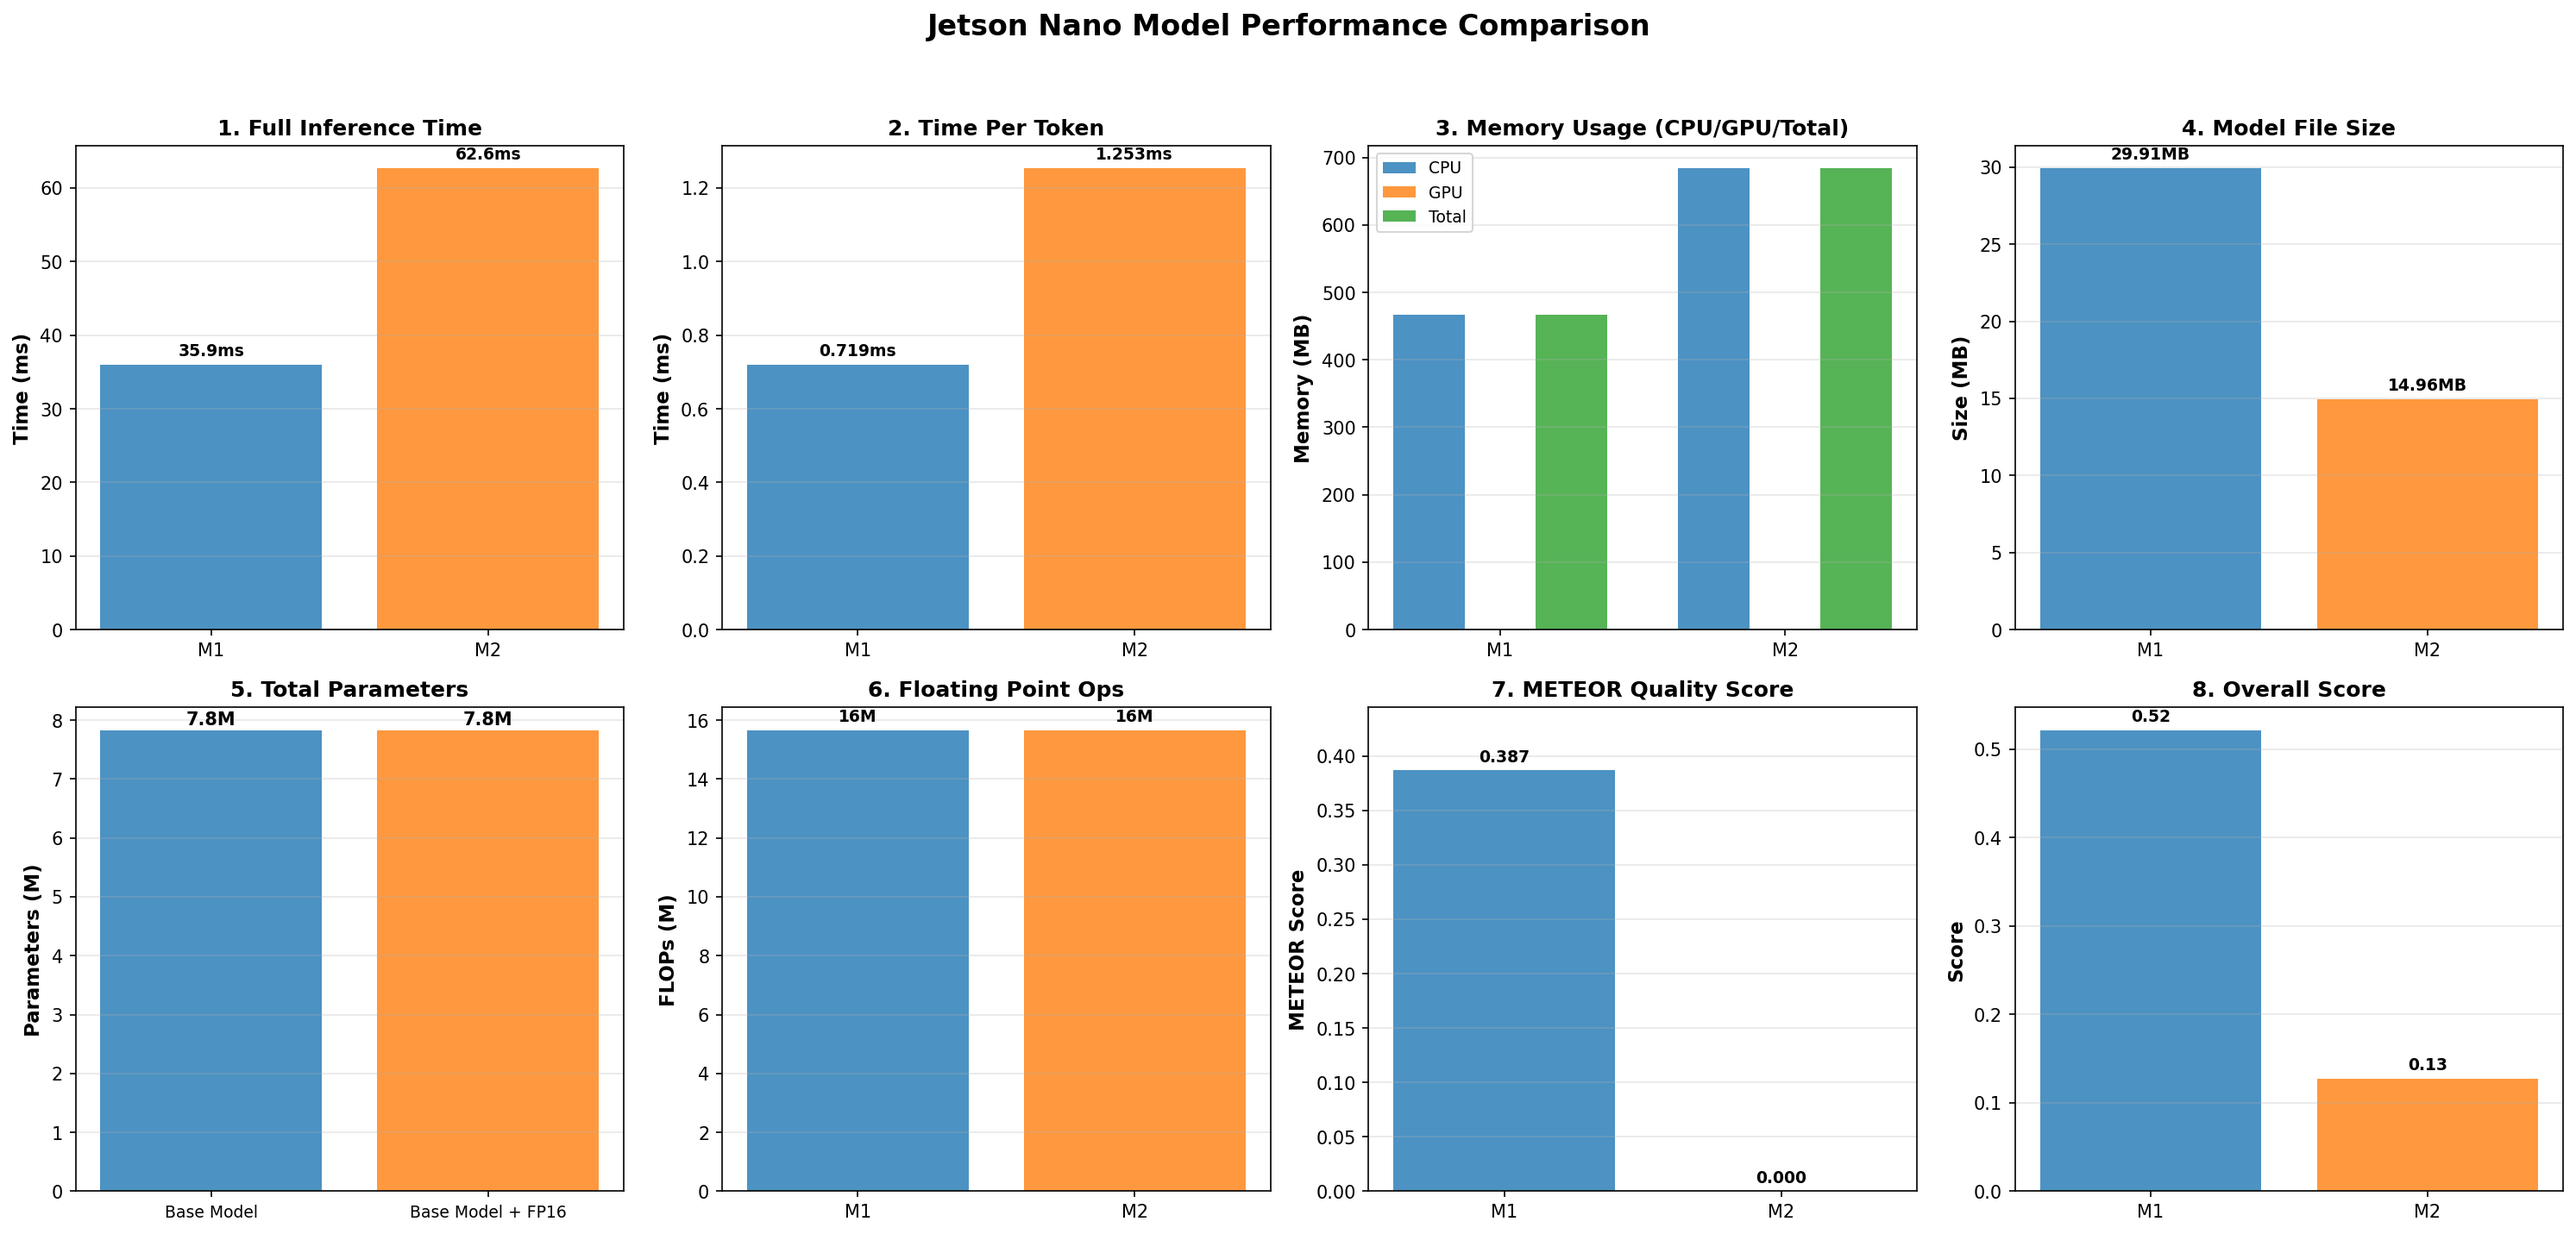
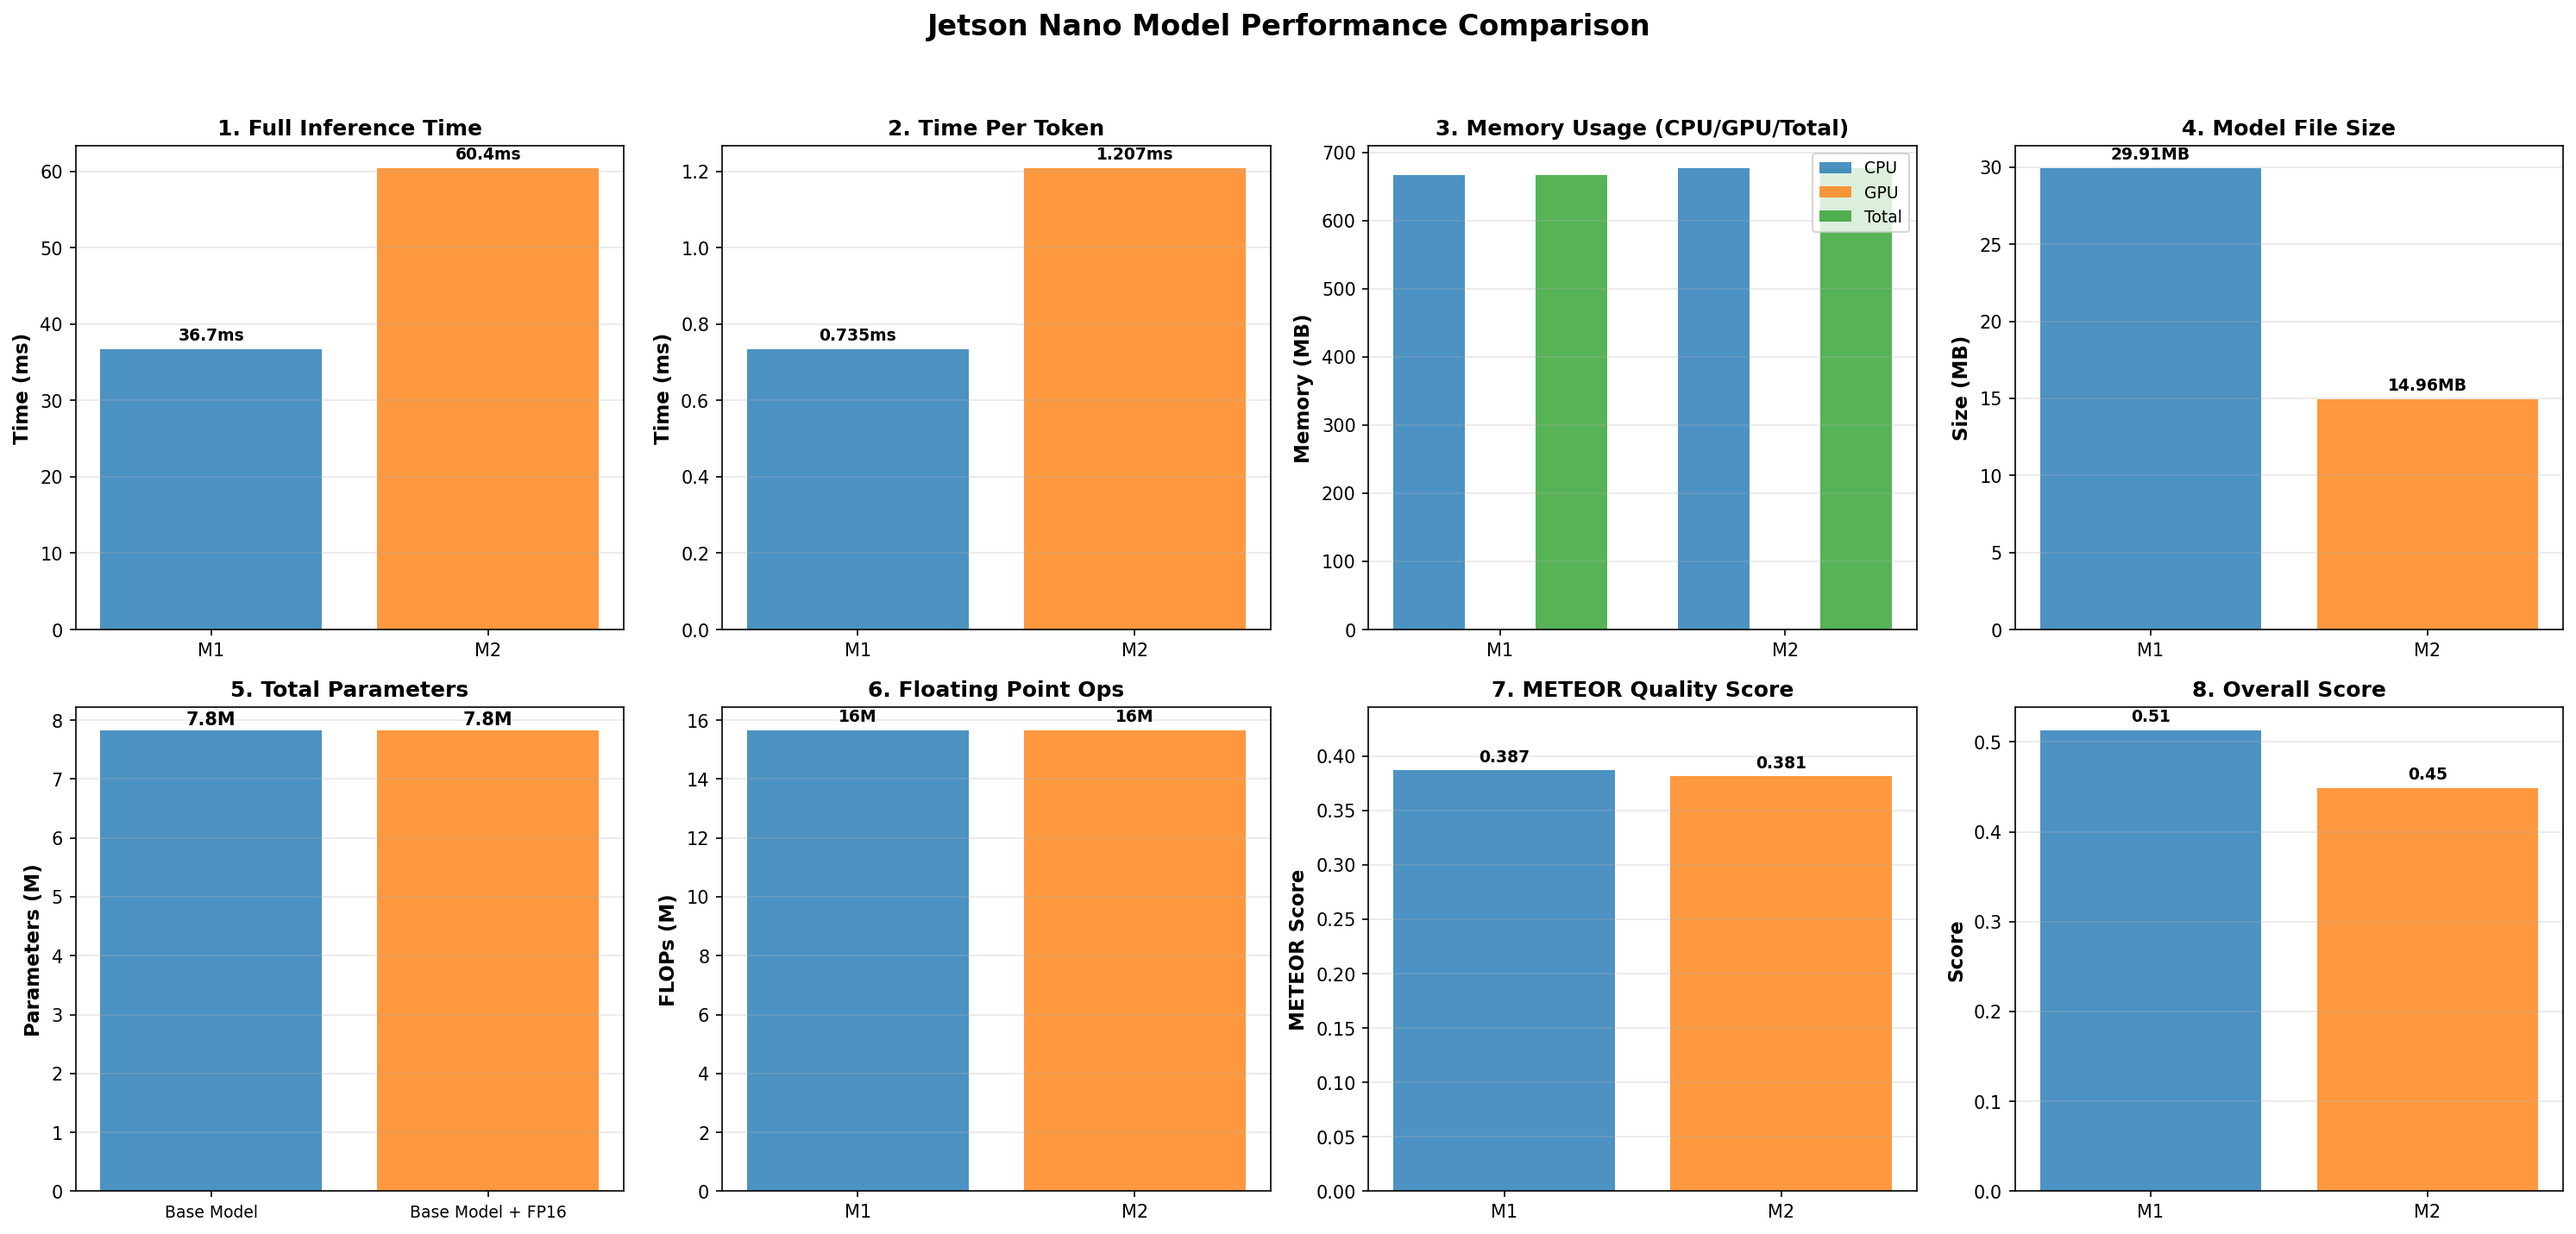
u

diff --git a/scripts/benchmark_comparison.py b/scripts/benchmark_comparison.py
@@ -398,8 +398,10 @@ def benchmark_model(model, word_map, rev_word_map, model_name, config):
         torch.cuda.synchronize()
     print(" Done")
     
-    # 본 벤치마크 (실제 이미지 사용)
-    print("  Running {} iterations with real images...".format(NUM_RUNS))
+    # 본 벤치마크 (실제 이미지 사용 + METEOR 동시 측정)
+    print("  Running {} iterations with real images (measuring METEOR)...".format(NUM_RUNS))
+    
+    meteor_scores_benchmark = []  # 벤치마크 중 METEOR 점수 저장
     
     with torch.no_grad():
         for i in range(NUM_RUNS):
@@ -421,8 +423,9 @@ def benchmark_model(model, word_map, rev_word_map, model_name, config):
                 metrics.record_memory()
                 start = time.time()
                 
+                generated_caption = None
                 try:
-                    _ = model.generate(img_tensor, word_map, rev_word_map, max_len=50, device=device)
+                    generated_caption = model.generate(img_tensor, word_map, rev_word_map, max_len=50, device=device)
                 except:
                     # generate가 없으면 encoder만 실행
                     features = model.encoder(img_tensor)
@@ -437,9 +440,20 @@ def benchmark_model(model, word_map, rev_word_map, model_name, config):
                 inference_time = (time.time() - start) * 1000
                 metrics.record_inference(inference_time)
                 
+                # ★ 벤치마크 중 METEOR 점수 계산
+                if generated_caption:
+                    img_name = os.path.basename(img_path)
+                    reference_caption = test_captions.get(img_name, '')
+                    if reference_caption:
+                        score = calculate_meteor_score(generated_caption, reference_caption)
+                        meteor_scores_benchmark.append(score)
+                
                 if (i + 1) % 10 == 0:
-                    print()
-                    print("    [{}/{}] Done (Image: {})".format(i + 1, NUM_RUNS, os.path.basename(img_path)))
+                    if meteor_scores_benchmark:
+                        avg_meteor = float(np.mean(meteor_scores_benchmark))
+                        print("    [{}/{}] Done | METEOR: {:.4f}".format(i + 1, NUM_RUNS, avg_meteor))
+                    else:
+                        print("    [{}/{}] Done".format(i + 1, NUM_RUNS))
                     
             except Exception as e:
                 print("    Error processing image {}: {}".format(img_path, str(e)))
@@ -462,10 +476,16 @@ def benchmark_model(model, word_map, rev_word_map, model_name, config):
     flops_millions = calculate_flops(model)
     stats['flops_millions'] = flops_millions
     
-    # ★ METEOR 점수 계산 (test 데이터셋 사용)
-    print("  Calculating METEOR score...")
-    meteor_score = calculate_meteor_from_test_data(model, word_map, rev_word_map)
-    stats['meteor_score'] = meteor_score
+    # ★ METEOR 점수 (벤치마크 중 수집한 점수 사용)
+    if meteor_scores_benchmark:
+        avg_meteor = float(np.mean(meteor_scores_benchmark))
+        stats['meteor_score'] = avg_meteor
+        print("  Benchmark METEOR: {:.4f} (from {} samples)".format(avg_meteor, len(meteor_scores_benchmark)))
+    else:
+        # 벤치마크 중 METEOR 못 측정했으면 별도 계산
+        print("  Calculating METEOR score separately...")
+        meteor_score = calculate_meteor_from_test_data(model, word_map, rev_word_map, num_samples=20)
+        stats['meteor_score'] = meteor_score
     
     print("\n Results:")
     print("    - Latency: {:.2f} ms".format(stats['mean_latency_ms']))
@@ -476,7 +496,7 @@ def benchmark_model(model, word_map, rev_word_map, model_name, config):
     print("    - Size: {:.2f} MB".format(stats['model_size_mb']))
     print("    - Params: {:,}".format(param_count))
     print("    - FLOPs: {:.1f}M".format(flops_millions))
-    print("    - METEOR: {:.4f}".format(meteor_score))
+    print("    - METEOR: {:.4f}".format(stats['meteor_score']))
     
     return stats
 
